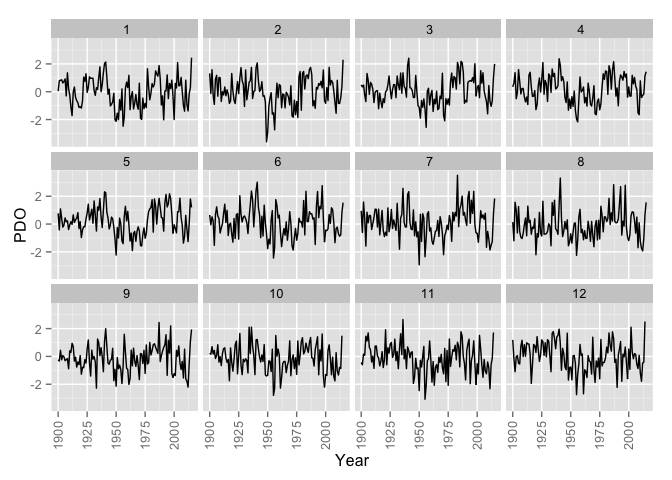
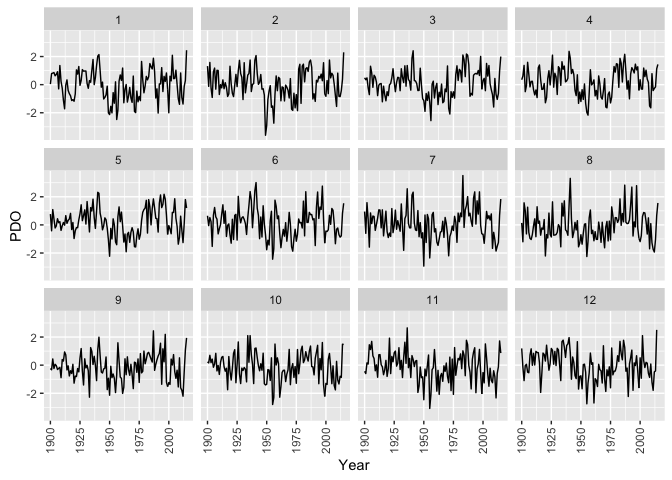
Added Tests and Vignette

Changed region(s): [[0.0, 0.0, 1.0, 1.0]]

diff --git a/vignettes/rpdo.html b/vignettes/rpdo.html
@@ -1,0 +1,54 @@
+<!DOCTYPE html>
+
+<html xmlns="http://www.w3.org/1999/xhtml">
+
+<head>
+
+<meta charset="utf-8">
+<meta http-equiv="Content-Type" content="text/html; charset=utf-8" />
+<meta name="generator" content="pandoc" />
+
+<meta name="author" content="Joe Thorley, Nathan Mantua and Steven R. Hare" />
+
+<meta name="date" content="2016-01-11" />
+
+<title>An Introduction to rpdo</title>
+
+
+
+
+<link href="data:text/css;charset=utf-8,body%20%7B%0Abackground%2Dcolor%3A%20%23fff%3B%0Amargin%3A%201em%20auto%3B%0Amax%2Dwidth%3A%20700px%3B%0Aoverflow%3A%20visible%3B%0Apadding%2Dleft%3A%202em%3B%0Apadding%2Dright%3A%202em%3B%0Afont%2Dfamily%3A%20%22Open%20Sans%22%2C%20%22Helvetica%20Neue%22%2C%20Helvetica%2C%20Arial%2C%20sans%2Dserif%3B%0Afont%2Dsize%3A%2014px%3B%0Aline%2Dheight%3A%201%2E35%3B%0A%7D%0A%23header%20%7B%0Atext%2Dalign%3A%20center%3B%0A%7D%0A%23TOC%20%7B%0Aclear%3A%20both%3B%0Amargin%3A%200%200%2010px%2010px%3B%0Apadding%3A%204px%3B%0Awidth%3A%20400px%3B%0Aborder%3A%201px%20solid%20%23CCCCCC%3B%0Aborder%2Dradius%3A%205px%3B%0Abackground%2Dcolor%3A%20%23f6f6f6%3B%0Afont%2Dsize%3A%2013px%3B%0Aline%2Dheight%3A%201%2E3%3B%0A%7D%0A%23TOC%20%2Etoctitle%20%7B%0Afont%2Dweight%3A%20bold%3B%0Afont%2Dsize%3A%2015px%3B%0Amargin%2Dleft%3A%205px%3B%0A%7D%0A%23TOC%20ul%20%7B%0Apadding%2Dleft%3A%2040px%3B%0Amargin%2Dleft%3A%20%2D1%2E5em%3B%0Amargin%2Dtop%3A%205px%3B%0Amargin%2Dbottom%3A%205px%3B%0A%7D%0A%23TOC%20ul%20ul%20%7B%0Amargin%2Dleft%3A%20%2D2em%3B%0A%7D%0A%23TOC%20li%20%7B%0Aline%2Dheight%3A%2016px%3B%0A%7D%0Atable%20%7B%0Amargin%3A%201em%20auto%3B%0Aborder%2Dwidth%3A%201px%3B%0Aborder%2Dcolor%3A%20%23DDDDDD%3B%0Aborder%2Dstyle%3A%20outset%3B%0Aborder%2Dcollapse%3A%20collapse%3B%0A%7D%0Atable%20th%20%7B%0Aborder%2Dwidth%3A%202px%3B%0Apadding%3A%205px%3B%0Aborder%2Dstyle%3A%20inset%3B%0A%7D%0Atable%20td%20%7B%0Aborder%2Dwidth%3A%201px%3B%0Aborder%2Dstyle%3A%20inset%3B%0Aline%2Dheight%3A%2018px%3B%0Apadding%3A%205px%205px%3B%0A%7D%0Atable%2C%20table%20th%2C%20table%20td%20%7B%0Aborder%2Dleft%2Dstyle%3A%20none%3B%0Aborder%2Dright%2Dstyle%3A%20none%3B%0A%7D%0Atable%20thead%2C%20table%20tr%2Eeven%20%7B%0Abackground%2Dcolor%3A%20%23f7f7f7%3B%0A%7D%0Ap%20%7B%0Amargin%3A%200%2E5em%200%3B%0A%7D%0Ablockquote%20%7B%0Abackground%2Dcolor%3A%20%23f6f6f6%3B%0Apadding%3A%200%2E25em%200%2E75em%3B%0A%7D%0Ahr%20%7B%0Aborder%2Dstyle%3A%20solid%3B%0Aborder%3A%20none%3B%0Aborder%2Dtop%3A%201px%20solid%20%23777%3B%0Amargin%3A%2028px%200%3B%0A%7D%0Adl%20%7B%0Amargin%2Dleft%3A%200%3B%0A%7D%0Adl%20dd%20%7B%0Amargin%2Dbottom%3A%2013px%3B%0Amargin%2Dleft%3A%2013px%3B%0A%7D%0Adl%20dt%20%7B%0Afont%2Dweight%3A%20bold%3B%0A%7D%0Aul%20%7B%0Amargin%2Dtop%3A%200%3B%0A%7D%0Aul%20li%20%7B%0Alist%2Dstyle%3A%20circle%20outside%3B%0A%7D%0Aul%20ul%20%7B%0Amargin%2Dbottom%3A%200%3B%0A%7D%0Apre%2C%20code%20%7B%0Abackground%2Dcolor%3A%20%23f7f7f7%3B%0Aborder%2Dradius%3A%203px%3B%0Acolor%3A%20%23333%3B%0A%7D%0Apre%20%7B%0Awhite%2Dspace%3A%20pre%2Dwrap%3B%20%0Aborder%2Dradius%3A%203px%3B%0Amargin%3A%205px%200px%2010px%200px%3B%0Apadding%3A%2010px%3B%0A%7D%0Apre%3Anot%28%5Bclass%5D%29%20%7B%0Abackground%2Dcolor%3A%20%23f7f7f7%3B%0A%7D%0Acode%20%7B%0Afont%2Dfamily%3A%20Consolas%2C%20Monaco%2C%20%27Courier%20New%27%2C%20monospace%3B%0Afont%2Dsize%3A%2085%25%3B%0A%7D%0Ap%20%3E%20code%2C%20li%20%3E%20code%20%7B%0Apadding%3A%202px%200px%3B%0A%7D%0Adiv%2Efigure%20%7B%0Atext%2Dalign%3A%20center%3B%0A%7D%0Aimg%20%7B%0Abackground%2Dcolor%3A%20%23FFFFFF%3B%0Apadding%3A%202px%3B%0Aborder%3A%201px%20solid%20%23DDDDDD%3B%0Aborder%2Dradius%3A%203px%3B%0Aborder%3A%201px%20solid%20%23CCCCCC%3B%0Amargin%3A%200%205px%3B%0A%7D%0Ah1%20%7B%0Amargin%2Dtop%3A%200%3B%0Afont%2Dsize%3A%2035px%3B%0Aline%2Dheight%3A%2040px%3B%0A%7D%0Ah2%20%7B%0Aborder%2Dbottom%3A%204px%20solid%20%23f7f7f7%3B%0Apadding%2Dtop%3A%2010px%3B%0Apadding%2Dbottom%3A%202px%3B%0Afont%2Dsize%3A%20145%25%3B%0A%7D%0Ah3%20%7B%0Aborder%2Dbottom%3A%202px%20solid%20%23f7f7f7%3B%0Apadding%2Dtop%3A%2010px%3B%0Afont%2Dsize%3A%20120%25%3B%0A%7D%0Ah4%20%7B%0Aborder%2Dbottom%3A%201px%20solid%20%23f7f7f7%3B%0Amargin%2Dleft%3A%208px%3B%0Afont%2Dsize%3A%20105%25%3B%0A%7D%0Ah5%2C%20h6%20%7B%0Aborder%2Dbottom%3A%201px%20solid%20%23ccc%3B%0Afont%2Dsize%3A%20105%25%3B%0A%7D%0Aa%20%7B%0Acolor%3A%20%230033dd%3B%0Atext%2Ddecoration%3A%20none%3B%0A%7D%0Aa%3Ahover%20%7B%0Acolor%3A%20%236666ff%3B%20%7D%0Aa%3Avisited%20%7B%0Acolor%3A%20%23800080%3B%20%7D%0Aa%3Avisited%3Ahover%20%7B%0Acolor%3A%20%23BB00BB%3B%20%7D%0Aa%5Bhref%5E%3D%22http%3A%22%5D%20%7B%0Atext%2Ddecoration%3A%20underline%3B%20%7D%0Aa%5Bhref%5E%3D%22https%3A%22%5D%20%7B%0Atext%2Ddecoration%3A%20underline%3B%20%7D%0A%0Acode%20%3E%20span%2Ekw%20%7B%20color%3A%20%23555%3B%20font%2Dweight%3A%20bold%3B%20%7D%20%0Acode%20%3E%20span%2Edt%20%7B%20color%3A%20%23902000%3B%20%7D%20%0Acode%20%3E%20span%2Edv%20%7B%20color%3A%20%2340a070%3B%20%7D%20%0Acode%20%3E%20span%2Ebn%20%7B%20color%3A%20%23d14%3B%20%7D%20%0Acode%20%3E%20span%2Efl%20%7B%20color%3A%20%23d14%3B%20%7D%20%0Acode%20%3E%20span%2Ech%20%7B%20color%3A%20%23d14%3B%20%7D%20%0Acode%20%3E%20span%2Est%20%7B%20color%3A%20%23d14%3B%20%7D%20%0Acode%20%3E%20span%2Eco%20%7B%20color%3A%20%23888888%3B%20font%2Dstyle%3A%20italic%3B%20%7D%20%0Acode%20%3E%20span%2Eot%20%7B%20color%3A%20%23007020%3B%20%7D%20%0Acode%20%3E%20span%2Eal%20%7B%20color%3A%20%23ff0000%3B%20font%2Dweight%3A%20bold%3B%20%7D%20%0Acode%20%3E%20span%2Efu%20%7B%20color%3A%20%23900%3B%20font%2Dweight%3A%20bold%3B%20%7D%20%20code%20%3E%20span%2Eer%20%7B%20color%3A%20%23a61717%3B%20background%2Dcolor%3A%20%23e3d2d2%3B%20%7D%20%0A" rel="stylesheet" type="text/css" />
+
+</head>
+
+<body>
+
+
+
+<div id="header">
+<h1 class="title">An Introduction to rpdo</h1>
+<h4 class="author"><em>Joe Thorley, Nathan Mantua and Steven R. Hare</em></h4>
+<h4 class="date"><em>2016-01-11</em></h4>
+</div>
+
+
+<p>The R data package <code>rpdo</code> provides updated standardized values for the PDO index, derived as the leading PC of monthly SST anomalies in the North Pacific Ocean, poleward of 20N. The monthly mean global average SST anomalies are removed to separate this pattern of variability from any “global warming” signal that may be present in the data.</p>
+<p>For more details, see:</p>
+<p>Zhang, Y., J.M. Wallace, D.S. Battisti, 1997: ENSO-like interdecadal variability: 1900-93. J. Climate, 10, 1004-1020.</p>
+<p>Mantua, N.J. and S.R. Hare, Y. Zhang, J.M. Wallace, and R.C. Francis,1997: A Pacific interdecadal climate oscillation with impacts on salmon production. Bulletin of the American Meteorological Society, 78, pp. 1069-1079. (available via the internet at url: <a href="http://www.atmos.washington.edu/~mantua/abst.PDO.html" class="uri">http://www.atmos.washington.edu/~mantua/abst.PDO.html</a>)</p>
+<p>Data sources for this index are: UKMO Historical SST data set for 1900-81; Reynold’s Optimally Interpolated SST (V1) for January 1982-Dec 2001) *** OI SST Version 2 (V2) beginning January 2002 -</p>
+
+
+
+<!-- dynamically load mathjax for compatibility with self-contained -->
+<script>
+  (function () {
+    var script = document.createElement("script");
+    script.type = "text/javascript";
+    script.src  = "https://cdn.mathjax.org/mathjax/latest/MathJax.js?config=TeX-AMS-MML_HTMLorMML";
+    document.getElementsByTagName("head")[0].appendChild(script);
+  })();
+</script>
+
+</body>
+</html>

diff --git a/README.md b/README.md
@@ -4,7 +4,10 @@
 rpdo
 ====
 
-An R data package of Monthly Pacific Decadal Oscillation (PDO) index values from January 1900 to present.
+PDO Index
+---------
+
+rpdo is an R data package of Monthly Pacific Decadal Oscillation (PDO) index values from January 1900 to present.
 
 ``` r
 library(rpdo)
@@ -17,17 +20,10 @@ ggplot(data = pdo, aes(x = Year, y = PDO)) + facet_wrap(~Month) + geom_line() +
 
 ![](README_files/figure-markdown_github/unnamed-chunk-1-1.png)
 
-Updated standardized values for the PDO index, derived as the leading PC of monthly SST anomalies in the North Pacific Ocean, poleward of 20N. The monthly mean global average SST anomalies are removed to separate this pattern of variability from any "global warming" signal that may be present in the data.
+Further Information
+-------------------
 
-For more details, see:
-
-Zhang, Y., J.M. Wallace, D.S. Battisti, 1997: ENSO-like interdecadal variability: 1900-93. J. Climate, 10, 1004-1020.
-
-Mantua, N.J. and S.R. Hare, Y. Zhang, J.M. Wallace, and R.C. Francis,1997: A Pacific interdecadal climate oscillation with impacts on salmon production. Bulletin of the American Meteorological Society, 78, pp. 1069-1079. (available via the internet at url: <http://www.atmos.washington.edu/~mantua/abst.PDO.html>)
-
-Data sources for this index are: UKMO Historical SST data set for 1900-81; Reynold's Optimally Interpolated SST (V1) for January 1982-Dec 2001) \*\*\* OI SST Version 2 (V2) beginning January 2002 -
-
-See also <http://research.jisao.washington.edu/pdo/PDO.latest>.
+For more information see `vignette("rpdo")` and <http://research.jisao.washington.edu/pdo/PDO.latest>.
 
 Installation
 ------------

diff --git a/NEWS.md b/NEWS.md
@@ -1,3 +1,7 @@
+# rpdo v0.1.1
+
+- Added values for October and November 2015.
+
 # rpdo v0.1.0
 
 - Added values for August and September 2015.
